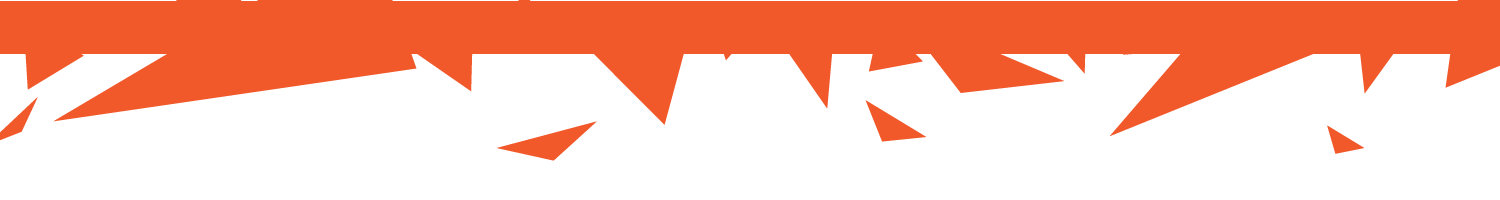
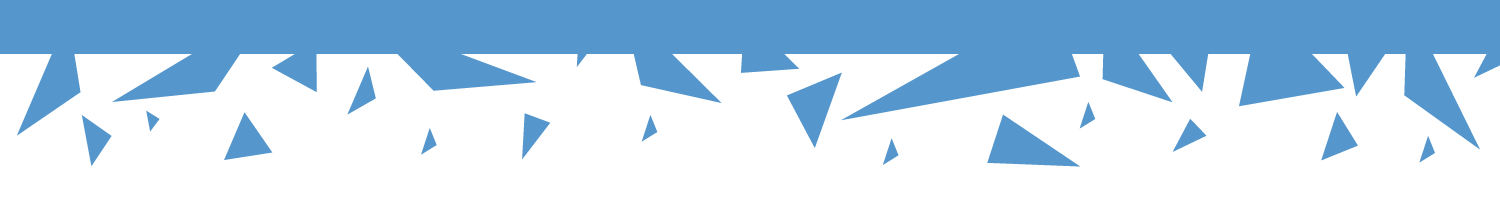
Added images and styles for Gogetta vid bot brand

diff --git a/src/app/a5-chat-window/a5-chat-window.component.css b/src/app/a5-chat-window/a5-chat-window.component.css
@@ -23,7 +23,7 @@
   -ms-flex-negative: 0;
   flex-shrink: 0;
   text-align: center;
-  border-bottom: 2px solid #600e62;
+  border-bottom: 2px solid #333;
   font-size: 17px;
   padding: 0.25rem;
   color: #666;
@@ -41,7 +41,7 @@
   -webkit-box-pack: center;
   -ms-flex-pack: center;
   justify-content: space-around;
-  background: #fff;
+  background-image: url('../../assets/img/geometry.png');
   /* background: linear-gradient(rgba(0, 0, 0, 0.5), rgba(0, 0, 0, 0.5)),
     url("../../assets/img/ccsf-campus-sun.jpg"); */
   background-size: cover;
@@ -103,7 +103,7 @@
   -webkit-box-pack: center;
   -ms-flex-pack: center;
   justify-content: center;
-  background-color: #f1592b;
+  background-color: #5597cc;
 }
 
 .logo-container {
@@ -175,19 +175,20 @@
   -ms-flex-direction: column-reverse;
   flex-direction: column-reverse;
   position: relative;
+  background: url('../../assets/img/geometry.png');
 }
 #message-list > *:first-child {
   margin-bottom: auto;
 }
 #brand-section:after {
   content: "";
-  background: url("/assets/img/a5-shatter-orange.png");
+  background: url("../../assets/img/a5-shatter-orange.png");
   height: 10px;
   width: 100%;
   position: absolute;
-  bottom: -10px;
+  bottom: 0px;
   left: 0;
-  background-position: 180% 61%;
+  background-position: -8% 49%;
 }
 .bot-menu-options {
   display: -webkit-box;
@@ -208,18 +209,18 @@
   -webkit-overflow-scrolling: touch;
   overflow-x: auto;
   position: relative;
-  background-color: #600e62;
+  background-color: #333;
   color: #fff;
 }
 .bot-menu-options:before {
   content: "";
-  background: url("/assets/img/purp-shatter.jpg");
+  background: url("../../assets/img/a5-shatter-black.png");
   height: 10px;
   width: 100%;
   position: absolute;
   top: 0;
   left: 0;
-  background-position: 32% 16%;
+  background-position: 111% 58%;
 }
 #dialog-options button {
   display: block;
@@ -282,7 +283,7 @@
   background: none;
   border: 0;
   cursor: pointer;
-  color: #cd024d;
+  color: #5597cc;
   font-family: "Nunito", sans-serif;
   letter-spacing: 0.25px;
   font-weight: bold;

diff --git a/src/app/a5-chat-window/a5-chat-window.component.ts b/src/app/a5-chat-window/a5-chat-window.component.ts
@@ -150,7 +150,7 @@ export class A5ChatWindowComponent implements OnInit {
   ];
 
   // Customizing
-  logoImg = "/assets/img-logo.png";
+  logoImg = "../../assets/img/GoGetterLogo.png";
   brandLine = "Welcome Message!";
   showBrandingLine = true;
   showHideButton = false;
@@ -340,7 +340,7 @@ export class A5ChatWindowComponent implements OnInit {
     // Gather needed parameters for Amazon Lex
     let params = {
       botAlias: "$LATEST",
-      botName: "PacNet",
+      botName: "AliveFiveVideoBot",
       inputText: textMessage,
       userId: this.lexUserID
     };

diff --git a/src/app/a5-chat-bubble/a5-chat-bubble.component.css b/src/app/a5-chat-bubble/a5-chat-bubble.component.css
@@ -14,7 +14,7 @@
 .message {
   font-size: 14px;
   padding: 0.5rem;
-  background: #cd024d;
+  background: #5597cc;
   color: #fff;
   border-radius: 5px;
   width: auto;
@@ -39,7 +39,7 @@
   height: auto;
 }
 .message.user {
-  background: #5f6062;
+  background: #333;
   font-family: "Nunito", sans-serif;
   color: white;
   -ms-flex-item-align: end;

diff --git a/src/assets/css/styles.css b/src/assets/css/styles.css
@@ -30,6 +30,7 @@ body {
 .message img {
   width: auto;
   max-width: 247px;
+  vertical-align: middle;
 }
 .emojiImg {
   height: 24px;
